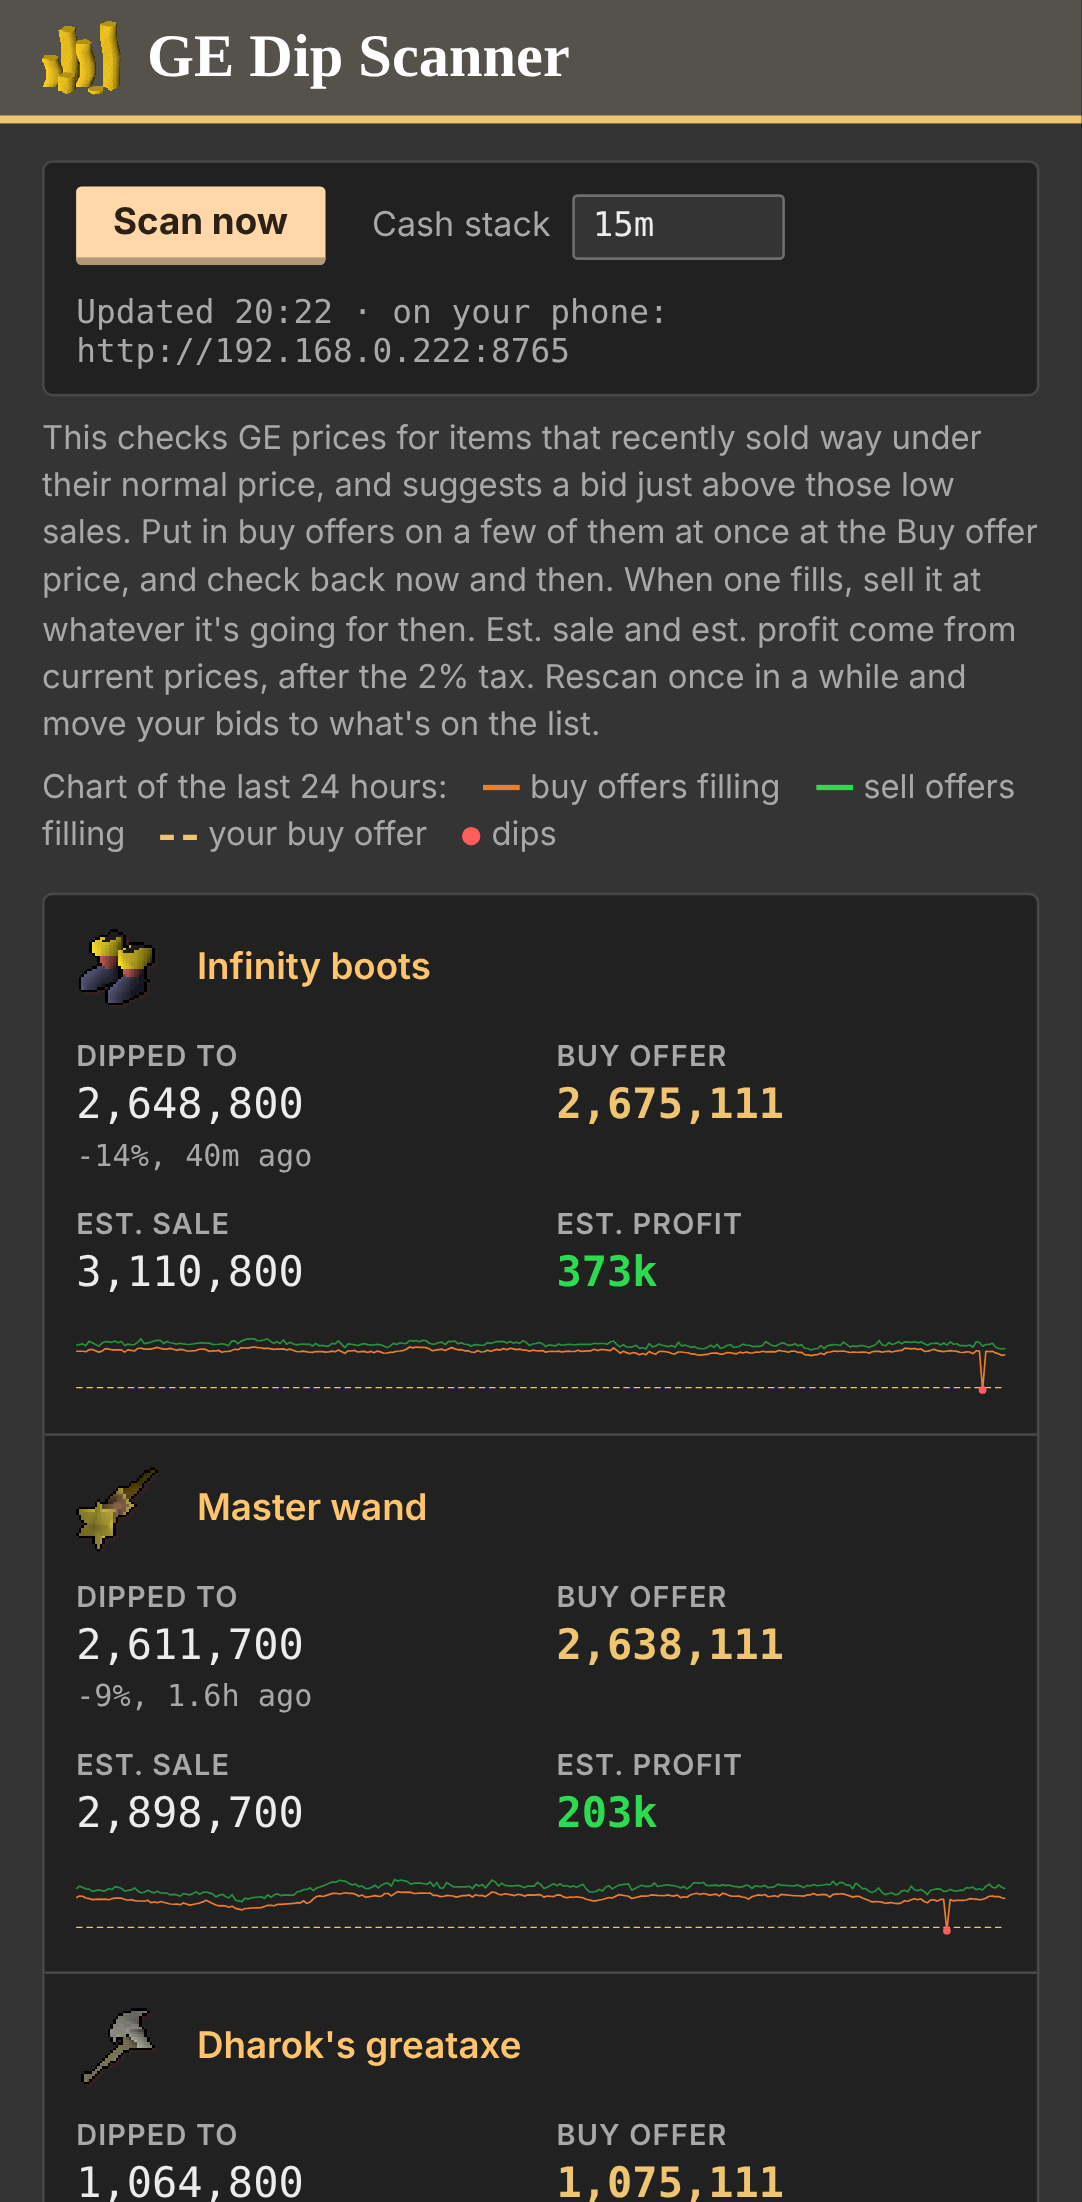
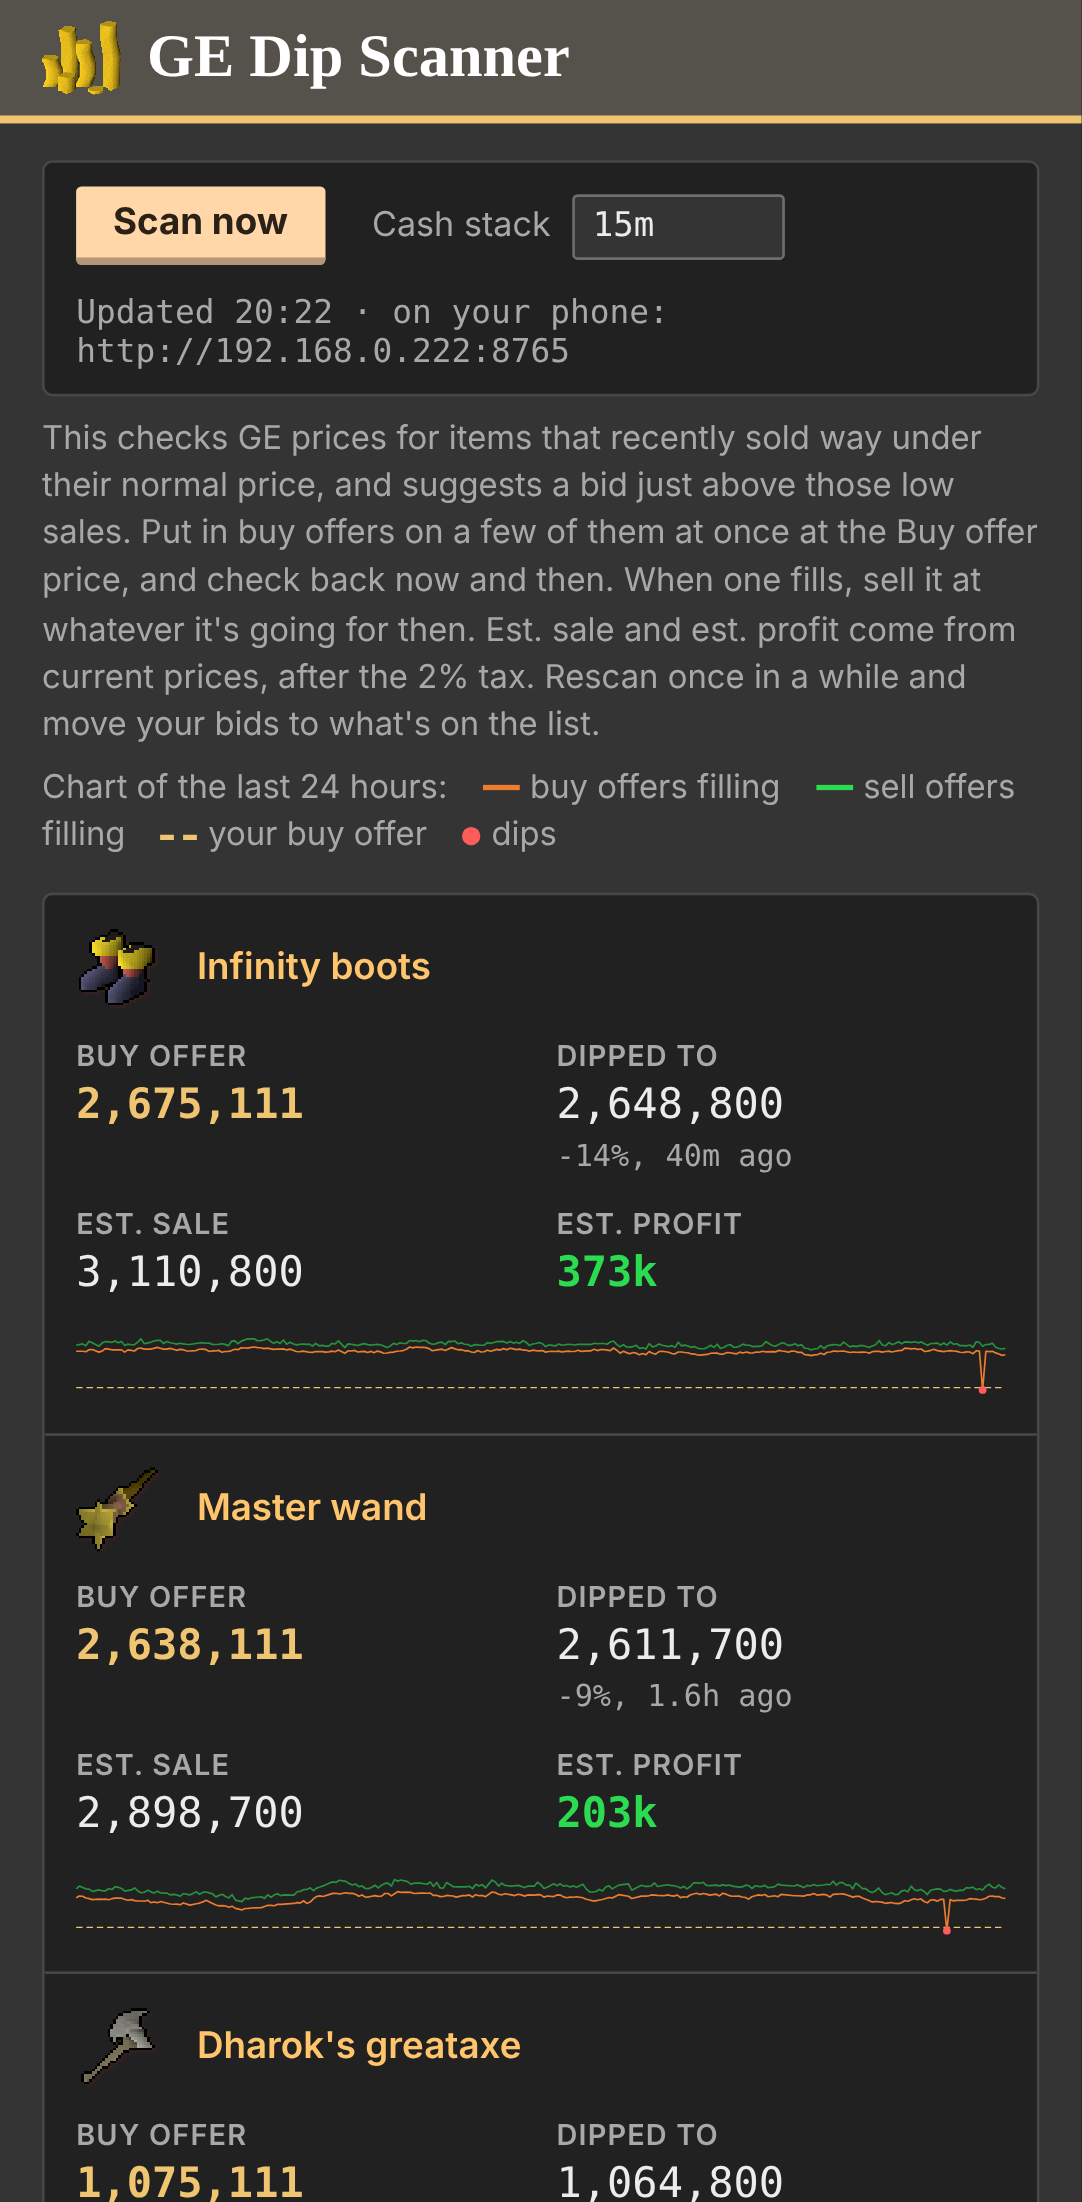
Buy offer next to the item name; chart moved to the end of the row
A wrong bid was typed because the Buy offer sat about 1,000px from its item name,
past the chart. Columns are now Item, Buy offer, Dipped to, Est. sale, Est. profit,
Last 24 hours. The row under the mouse is highlighted, the page is centred at up to
1640px wide, and the chart shrinks evenly on narrower screens. On phones Buy offer
is the first number under the name.

diff --git a/dip_scanner.py b/dip_scanner.py
@@ -603,11 +603,11 @@ def row_html(r, now):
     return f"""
 <tr data-id="{it['id']}">
   <td class="name"><div class="namewrap">{icon_html(it)}<div><a href="{ITEM_PAGE.format(it['id'])}" target="_blank" rel="noopener">{escape(it['name'])}</a></div></div></td>
-  <td class="chart">{sparkline(r)}</td>
-  <td class="num dip" data-label="Dipped to">{round(dip['low']):,}<div class="sub">-{dip['pct']:.0f}%, {ago(dip['ts'], now)}</div></td>
   <td class="num buy" data-label="Buy offer">{p['bid']:,}</td>
+  <td class="num dip" data-label="Dipped to">{round(dip['low']):,}<div class="sub">-{dip['pct']:.0f}%, {ago(dip['ts'], now)}</div></td>
   <td class="num sell" data-label="Est. sale">{round(r['sell_at']):,}</td>
   <td class="num profit" data-label="Est. profit">{gp(p['profit'])}</td>
+  <td class="chart">{sparkline(r)}</td>
 </tr>"""
 
 
@@ -634,15 +634,18 @@ def build_report(results, cfg, now, toolbar=""):
 * {{ box-sizing:border-box }}
 body {{ margin:0; background:var(--bg); color:var(--fg); font:14px/1.45 var(--sans); padding:0 0 40px }}
 header {{ display:flex; flex-wrap:wrap; gap:6px 22px; align-items:center; background:var(--head);
-  border-bottom:3px solid var(--gold); padding:9px max(16px, 3vw) }}
+  border-bottom:3px solid var(--gold); padding:9px calc(max(0px, (100% - 1640px) / 2) + max(16px, 3vw)) }}
 h1 {{ font:700 23px var(--serif); margin:0; display:flex; align-items:center; gap:10px; color:#fff }}
 h1 img {{ width:30px; height:28px; image-rendering:pixelated }}
-main {{ padding:0 max(16px, 3vw) }}
+main {{ padding:0 max(16px, 3vw); max-width:1640px; margin:0 auto }}
 .legend {{ color:var(--muted); font-size:12.5px; margin:8px 0 12px; max-width:92ch }}
 .legend p {{ margin:6px 0 }}
 .legend i {{ display:inline-block; width:14px; height:2px; vertical-align:middle; margin:0 4px 0 10px }}
 .wrap {{ overflow-x:auto; background:var(--panel); border:1px solid var(--line); border-radius:4px }}
-table {{ border-collapse:collapse; width:100%; min-width:1100px }}
+table {{ border-collapse:collapse; width:100%; min-width:960px }}
+tbody tr:hover td {{ background:rgba(255,255,255,.035) }}
+th.chart, td.chart {{ padding-left:28px }}
+td.name {{ white-space:nowrap }}
 th {{ text-align:left; font-size:13px; color:#fff; padding:9px 12px; border-bottom:1px solid var(--line);
   font-weight:700; white-space:nowrap; background:#2a2a2a }}
 td {{ padding:6px 12px; border-bottom:1px solid var(--line); vertical-align:middle }}
@@ -661,7 +664,7 @@ th.num {{ text-align:right }}
 .legend .dot {{ width:7px; height:7px; border-radius:50%; background:var(--dip) }}
 .chip {{ display:inline-block; padding:0 6px; border-radius:2px; font-size:11px; font-weight:700 }}
 .chip.new {{ background:var(--buy); color:#0b1a10; margin-left:6px; white-space:nowrap }}
-.spark {{ display:block; overflow:visible }}
+.spark {{ display:block; overflow:visible; width:100%; max-width:720px; height:auto }}
 .spark polyline {{ fill:none; stroke-width:1.3; stroke-linejoin:round }}
 .spark .hi {{ stroke:var(--buy); opacity:.6 }}
 .spark .lo {{ stroke:var(--sell) }}
@@ -688,8 +691,8 @@ th[title] {{ cursor:help; text-decoration:underline dotted #777; text-underline-
   tr {{ display:grid; grid-template-columns:1fr 1fr; gap:10px 12px; padding:12px; border-bottom:1px solid var(--line) }}
   tr:last-child {{ border-bottom:0 }}
   td {{ padding:0; border:0 }}
-  td.name {{ grid-column:1 / -1; min-width:0 }}
-  td.chart {{ grid-column:1 / -1; order:1 }}
+  td.name {{ grid-column:1 / -1; min-width:0; white-space:normal }}
+  td.chart {{ grid-column:1 / -1; order:1; padding:0 }}
   td.chart .spark {{ width:100%; height:auto }}
   td.num {{ text-align:left; font-size:16px }}
   td.num::before {{ content:attr(data-label); display:block; font:600 11px var(--sans); color:var(--muted);
@@ -709,11 +712,12 @@ bids to what's on the list.</p>
 <i style="background:var(--buy)"></i>sell offers filling <i style="border-top:2px dashed var(--gold)"></i>your buy offer <i class="dot"></i>dips</p>
 </div>
 <div class="wrap"><table>
-<thead><tr><th>Item</th><th>Last 24 hours</th>
-<th class="num" title="The lowest price of the latest dip, how far below normal it was, and how long ago">Dipped to</th>
+<thead><tr><th>Item</th>
 <th class="num" title="The price to put your GE buy offer in at: just above the latest dip">Buy offer</th>
+<th class="num" title="The lowest price of the latest dip, how far below normal it was, and how long ago">Dipped to</th>
 <th class="num" title="Roughly what it sells for now. Check the price again when your offer fills">Est. sale</th>
-<th class="num" title="Est. sale minus your buy offer, after the 2% GE tax">Est. profit</th></tr></thead>
+<th class="num" title="Est. sale minus your buy offer, after the 2% GE tax">Est. profit</th>
+<th class="chart">Last 24 hours</th></tr></thead>
 <tbody>{rows}</tbody></table></div>
 </main>
 <script>
